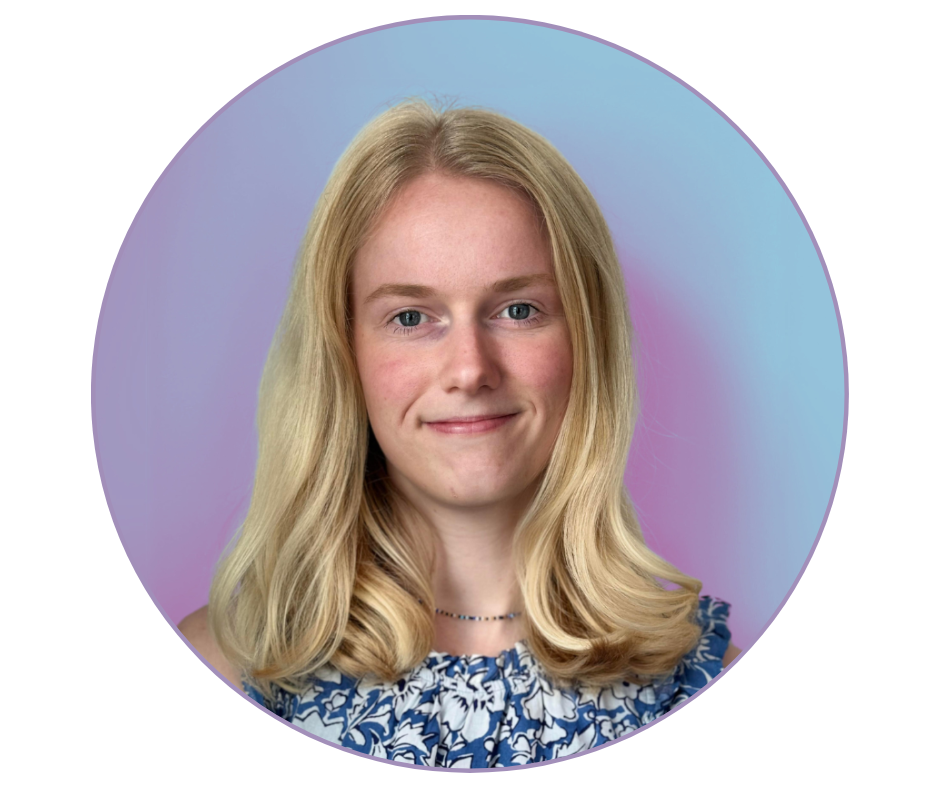
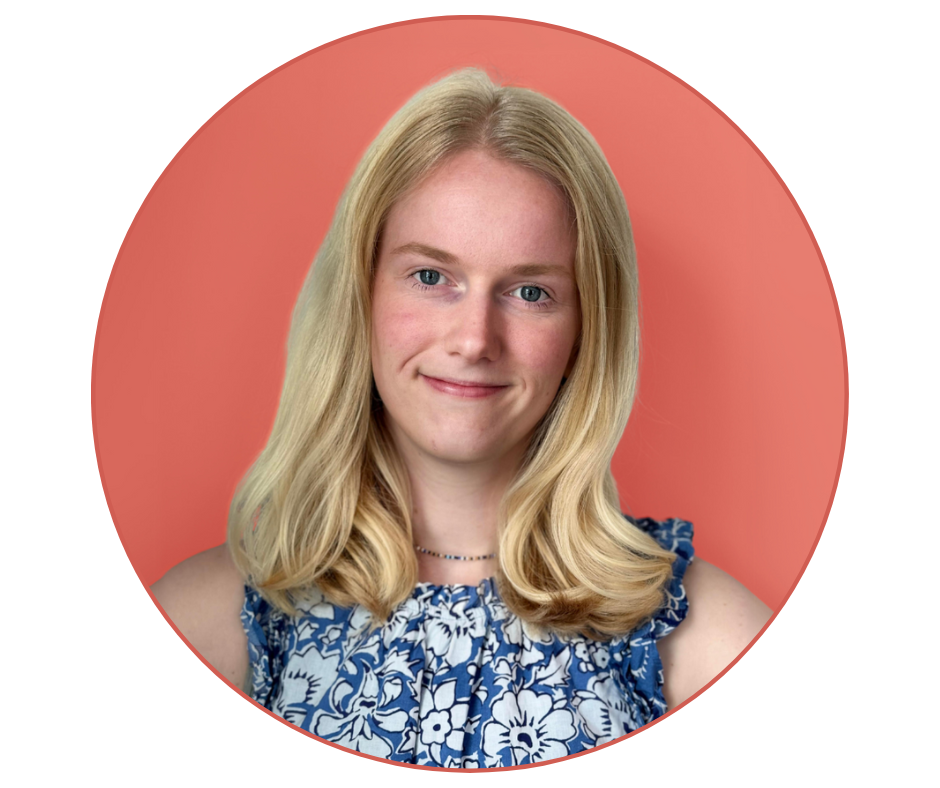
Theming and resume updates!

diff --git a/config.py b/config.py
@@ -21,6 +21,6 @@ GITHUB_LINK = "https://github.com/jannekemorin"
 
 HOMEPAGE_TITLE = "Hi, I'm Janneke Clever!"
 HOMEPAGE_SUBTITLE = "AI/ML Specialist"
-HOMEPAGE_BIO = """I am passionate about leveraging :violet-background[technology] to solve real-world problems. 
-                I enjoy exploring new :violet-background[AI/ML] tools and techniques as well as collaborating with others on innovative projects.
+HOMEPAGE_BIO = """I am passionate about leveraging :red-background[technology] to solve real-world problems. 
+                I enjoy exploring new :red-background[AI/ML] tools and techniques as well as collaborating with others on innovative projects.
                 \n\nPlease check out my resume below or visit the Q&A tab to learn more!"""
